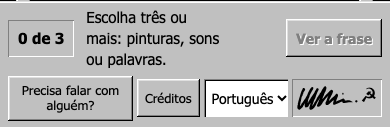
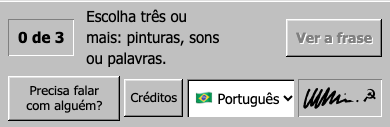
bandeiras no seletor de idioma, e a página reserva a altura real da barra
- 🇧🇷 Português, 🇬🇧 English, 🇨🇳 中文 no seletor (emoji: no Windows aparecem as
  letras do país).
- A barra de tarefas media 126 px no celular e a página reservava 116: a barra
  cobria o fim das janelas. A tela agora mede a barra (ResizeObserver) e reserva
  o que ela ocupa, em qualquer idioma e largura.
- Folga no seletor do celular para caber a bandeira com 'Português'.

Testes: e2e 'o seletor de idioma mostra a bandeira ao lado de cada língua' e
'a barra de tarefas não cresce além do espaço que a página reserva para ela',
vistos falhar antes.

diff --git a/src/ui/main.ts b/src/ui/main.ts
@@ -21,7 +21,8 @@ import { criarEstado, escolher, podeEscolher, pronta, redistribuir, retirar, tro
 
 const BASE = import.meta.env.BASE_URL;
 const API = (import.meta.env.VITE_API_BASE as string | undefined) || null;
-const NOMES_DE_IDIOMA: Record<Idioma, string> = { "pt-BR": "Português", en: "English", "zh-CN": "中文" };
+// A bandeira é um emoji: aparece em celular e em Mac; no Windows o sistema mostra as letras do país (BR, GB, CN).
+const NOMES_DE_IDIOMA: Record<Idioma, string> = { "pt-BR": "🇧🇷 Português", en: "🇬🇧 English", "zh-CN": "🇨🇳 中文" };
 // A mídia do acervo conferido mora no site; a do ampliado, nos servidores de origem, com endereço completo.
 const midia = (caminho: string) => (/^https:\/\//.test(caminho) ? caminho : `${BASE}${caminho}`);
 
@@ -79,6 +80,10 @@ function iniciar(raiz: HTMLElement, acervo: Acervo, glossario: Glossario, ajuda:
   const botaoCreditos = el("button", { class: "botao", type: "button", "data-acao": "creditos" });
   const botaoAjuda = el("button", { class: "botao ajuda", type: "button", "data-acao": "ajuda" });
   const tarefas = el("footer", { class: "tarefas" }, conta, lista, botaoVer, el("div", { class: "sistema" }, botaoAjuda, botaoCreditos, rotuloDoSeletor, seletor, autoria.no));
+
+  // A altura da barra muda com o idioma, a largura da tela e as escolhas. A página reserva o espaço que ela
+  // de fato ocupa, em vez de um número fixo: senão a barra cobre o fim das janelas no celular.
+  new ResizeObserver(() => document.documentElement.style.setProperty("--barra-de-tarefas", `${Math.ceil(tarefas.getBoundingClientRect().height)}px`)).observe(tarefas);
 
   const resultado = criarDialogo("resultado", "");
   const inteira = criarDialogo("inteira", "");

diff --git a/e2e/casca.spec.ts b/e2e/casca.spec.ts
@@ -52,3 +52,25 @@ test("o link de ajuda está na tela desde o começo e abre a linha do idioma", a
   await expect(page.locator('dialog[data-dialogo="ajuda"]')).toBeVisible();
   await expect(page.locator('dialog[data-dialogo="ajuda"] .telefone')).toHaveText("188");
 });
+
+test("o seletor de idioma mostra a bandeira ao lado de cada língua", async ({ page }) => {
+  const opcoes = await page.locator("#idioma option").allTextContents();
+  expect(opcoes).toEqual(["🇧🇷 Português", "🇬🇧 English", "🇨🇳 中文"]);
+  // o que a pessoa vê com o seletor fechado é a opção escolhida, com a bandeira
+  for (const [idioma, rotulo] of [["en", "🇬🇧 English"], ["zh-CN", "🇨🇳 中文"], ["pt-BR", "🇧🇷 Português"]] as const) {
+    await page.selectOption("#idioma", idioma);
+    expect(await page.locator("#idioma").evaluate((s: HTMLSelectElement) => s.selectedOptions[0]!.textContent)).toBe(rotulo);
+  }
+});
+
+test("a barra de tarefas não cresce além do espaço que a página reserva para ela", async ({ page }) => {
+  for (const idioma of ["pt-BR", "en", "zh-CN"]) {
+    await page.selectOption("#idioma", idioma);
+    const medida = await page.evaluate(() => ({
+      barra: document.querySelector(".tarefas")!.getBoundingClientRect().height,
+      reservado: parseFloat(getComputedStyle(document.documentElement).getPropertyValue("--barra-de-tarefas")),
+      seletor: (() => { const s = document.querySelector<HTMLSelectElement>("#idioma")!; return { cabe: s.scrollWidth <= s.clientWidth + 1, largura: s.getBoundingClientRect().width }; })(),
+    }));
+    expect(medida.barra, `barra em ${idioma}`).toBeLessThanOrEqual(medida.reservado + 1);
+  }
+});

diff --git a/src/estilo/janela.css b/src/estilo/janela.css
@@ -591,8 +591,9 @@ details summary {
   .tarefas .sistema { gap: 4px; }
   .tarefas .sistema .botao { font-size: 13px; line-height: 1.2; }
   .tarefas .sistema .ajuda { flex: 1 1 0; min-width: 0; }
-  .tarefas select { max-width: 112px; padding-inline: 4px 2px; font-size: 14px; }
+  .tarefas select { max-width: 136px; padding-inline: 4px 2px; font-size: 14px; } /* cabe "🇧🇷 Português" também no seletor do iPhone */
+  .tarefas .sistema [data-acao="creditos"] { padding-inline: 6px; }
   .autoria { padding-inline: 5px; gap: 3px; }
-  .autoria .assinatura svg { height: 24px; }
-  .autoria .simbolo { font-size: 22px; }
+  .autoria .assinatura svg { height: 22px; }
+  .autoria .simbolo { font-size: 20px; }
 }

diff --git a/src/estilo/base.css b/src/estilo/base.css
@@ -11,7 +11,7 @@
   --humana: "Iowan Old Style", "Palatino Linotype", Palatino, "Book Antiqua", "Songti SC", "Noto Serif CJK SC",
     "Source Han Serif SC", STSong, Georgia, serif;
   --maquina: Tahoma, "MS Sans Serif", "Segoe UI", Verdana, system-ui, "PingFang SC", "Microsoft YaHei", sans-serif;
-  --barra-de-tarefas: 116px; /* no celular a barra tem duas linhas: escolhas em cima, sistema embaixo */
+  --barra-de-tarefas: 116px; /* valor de partida; a tela mede a barra de verdade e corrige (main.ts) */
 }
 
 * {

diff --git a/README.md b/README.md
@@ -129,7 +129,7 @@ O servidor de produção ainda não tem adaptador: `criarInterpretar` recebe um 
 ## Estado, medido em 12/Nov/2026
 
 - Acervo conferido: 30 pinturas (20 com rosto de destaque), 30 sons, 90 palavras, 60 delas com definição no dicionário da própria língua. Acervo ampliado: 615 pinturas (293 com rosto) e 873 sons, com os 34 construtos representados. Tudo com revisão humana pendente. Glossário com 34 construtos e 4 termos de dimensão.
-- Testes: 113 em Python, 299 de unidade em TypeScript, 78 de navegador (celular e tela larga, só em Chromium).
+- Testes: 113 em Python, 299 de unidade em TypeScript, 82 de navegador (celular e tela larga, só em Chromium).
 - Validador: rejeita 33 de 33 frases defeituosas do conjunto de regressão e aceita 18 de 18 de referência. **É uma barreira, não uma prova.** A revisão final fez passar 13 frases que atribuíam estado à pessoa ou aconselhavam ("o medo que te consome", "you're anxious"); hoje elas são rejeitadas e viraram teste, mas a regra continua sendo lista, com furos por natureza.
 - O compositor por regra não gera frase reprovada: conferido pelo revisor em 352.440 frases (todos os trios do índice, nos três idiomas) e, no repositório, por um teste sobre uma amostra fixa.
 - Sonda do pré-prompt com modelo real: 17 de 18 respostas aprovadas na primeira tentativa. A reprovada, em mandarim, não tinha verbo de mensagem. Uma tentativa de injeção plantada nas tags de um som foi tratada como dado nos três idiomas.
